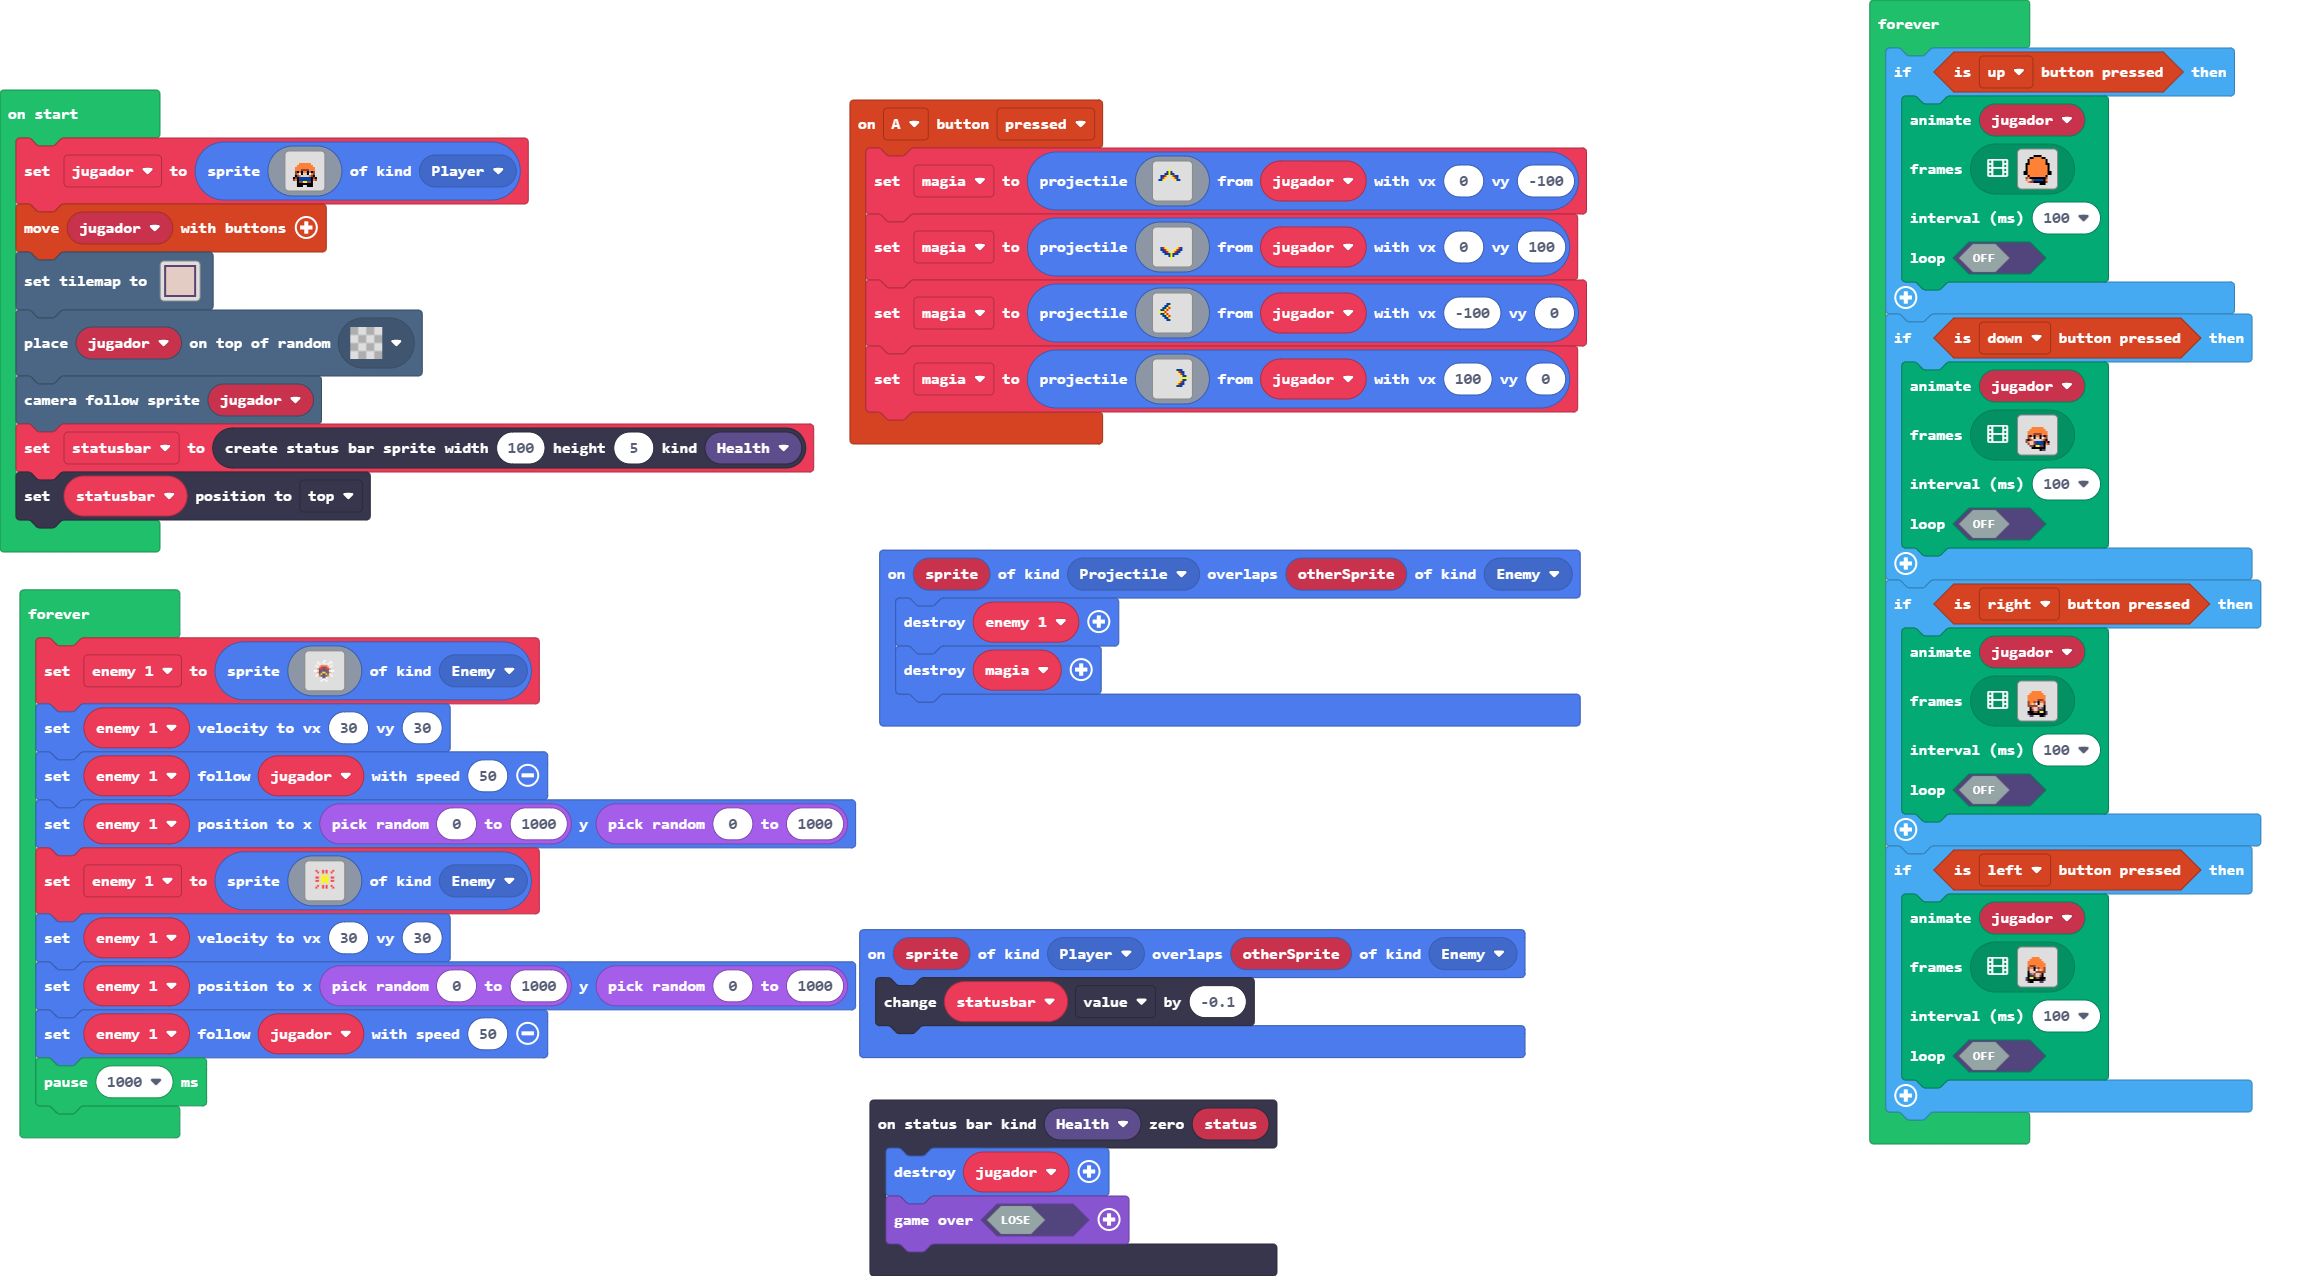
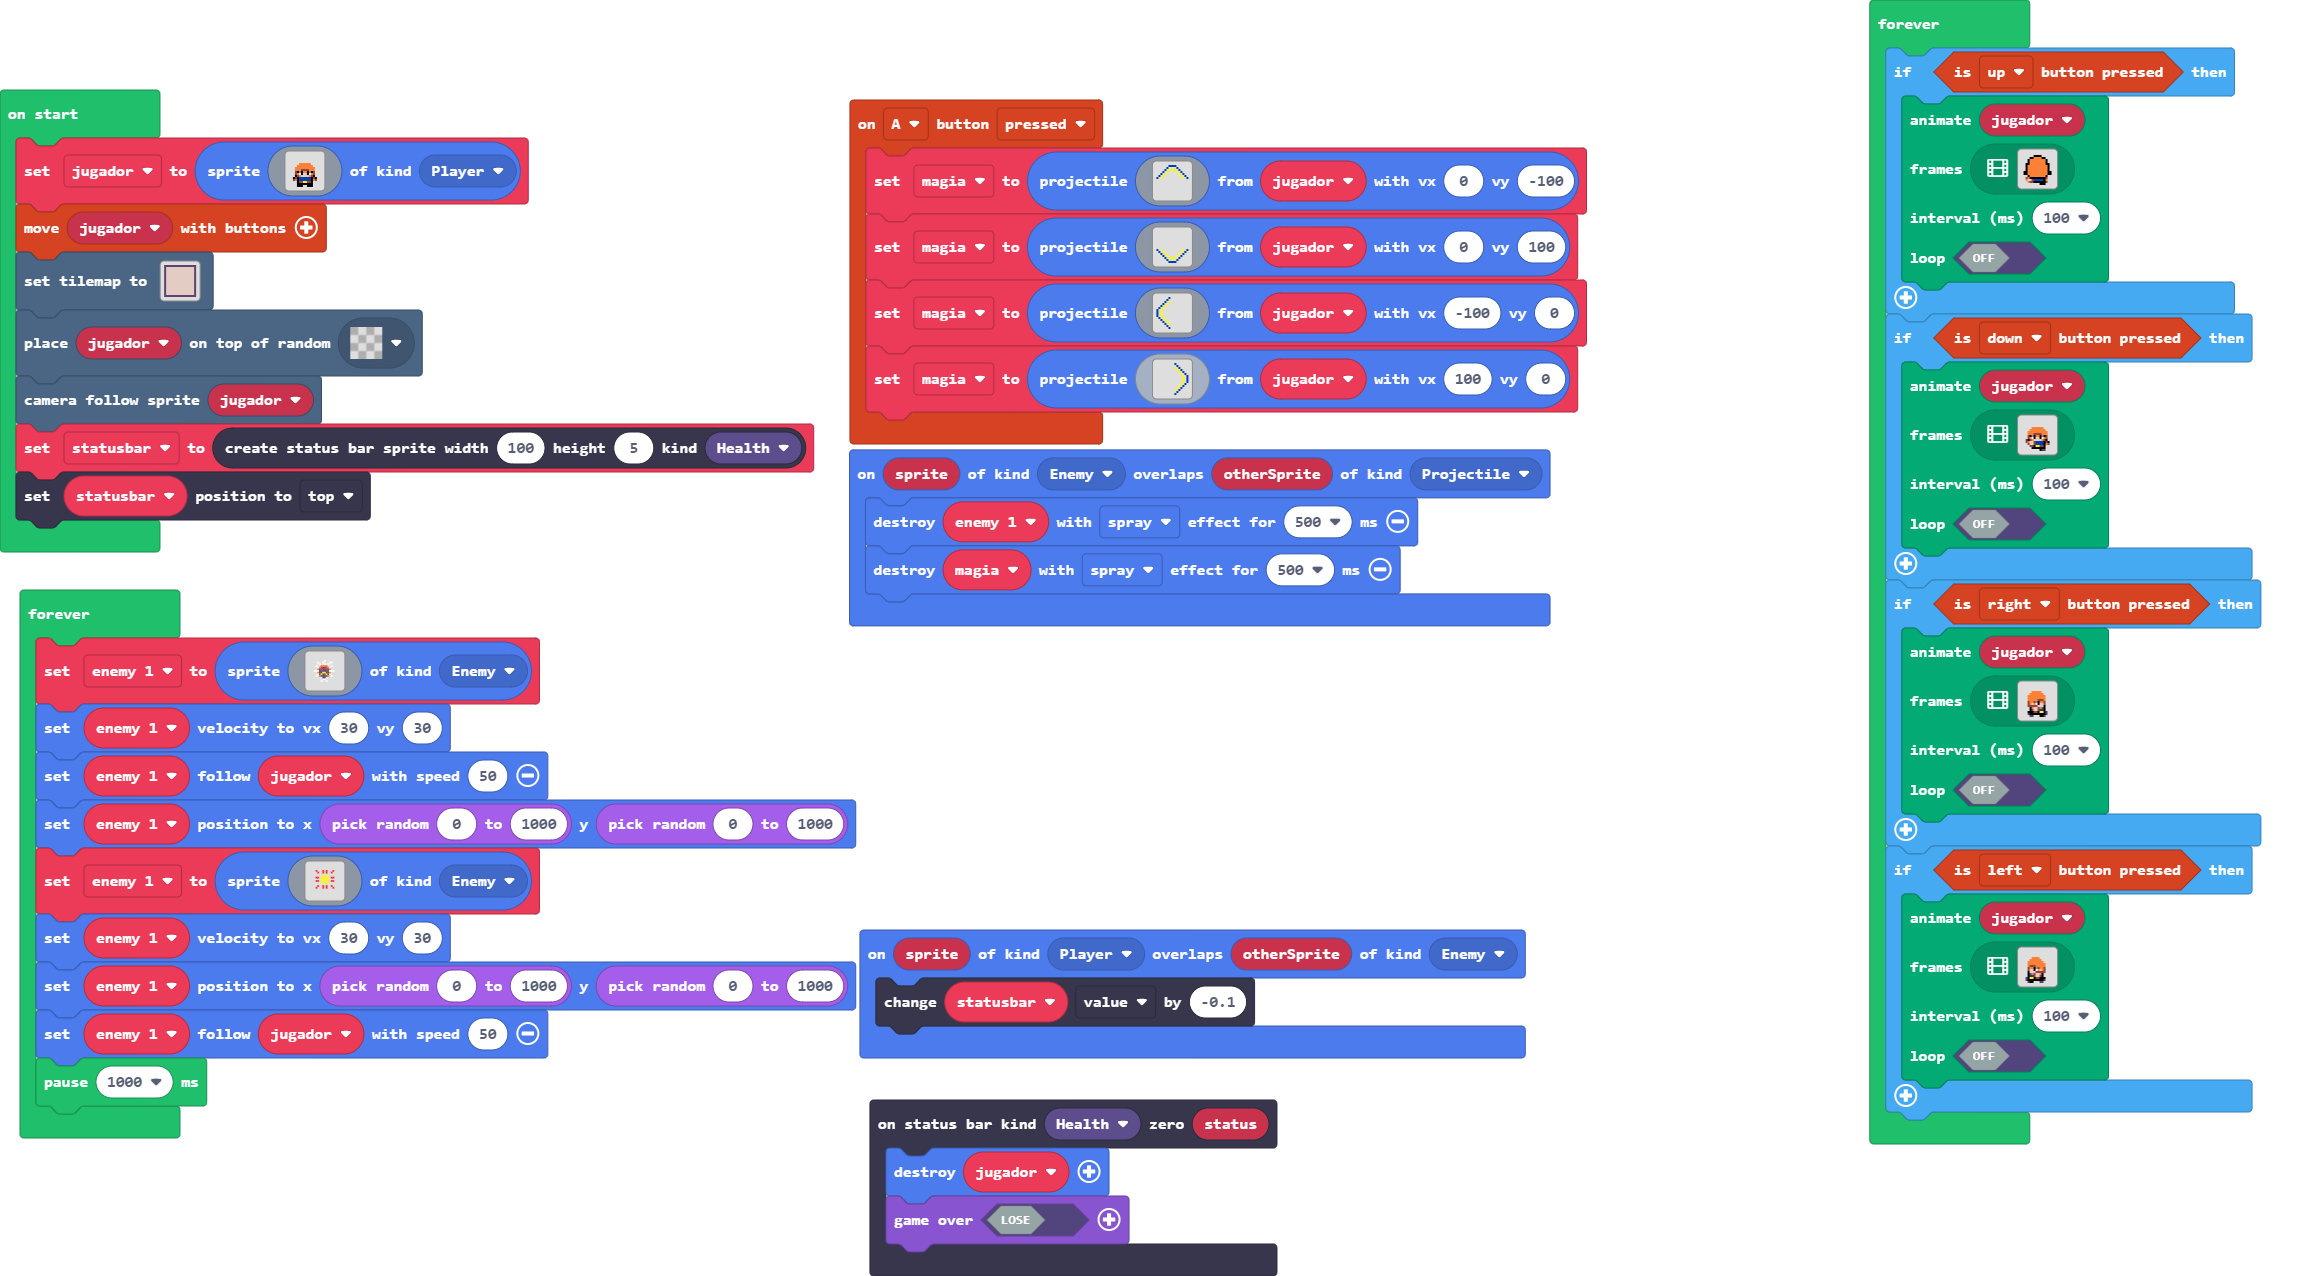
Update main.blocks, main.ts

Changed region(s): [[0.3424, 0.2751, 0.6848, 0.5807], [0.5292, 0.7335, 0.5603, 0.7641]]

diff --git a/main.ts b/main.ts
@@ -3,14 +3,14 @@ namespace SpriteKind {
 }
 controller.A.onEvent(ControllerButtonEvent.Pressed, function () {
     magia = sprites.createProjectileFromSprite(img`
+        . . . . . . 8 8 8 8 . . . . . . 
+        . . . . . 8 . . . . 8 . . . . . 
+        . . . . 8 . 5 5 5 5 . 8 . . . . 
+        . . . 8 . 5 . . . . 5 . 8 . . . 
+        . . 8 . 5 . . . . . . 5 . 8 . . 
+        . 8 . 5 . . . . . . . . 5 . 8 . 
+        8 . 5 . . . . . . . . . . 5 . 8 
         . . . . . . . . . . . . . . . . 
-        . . . . . . . . . . . . . . . . 
-        . . . . . . 5 . . . . . . . . . 
-        . . . . . 8 5 8 . . . . . . . . 
-        . . . . 8 8 5 8 8 . . . . . . . 
-        . . 8 8 2 5 . 5 2 8 8 . . . . . 
-        . . 8 2 5 . . . 5 2 8 . . . . . 
-        . 8 8 5 . . . . . 5 8 8 . . . . 
         . . . . . . . . . . . . . . . . 
         . . . . . . . . . . . . . . . . 
         . . . . . . . . . . . . . . . . 
@@ -29,59 +29,59 @@ controller.A.onEvent(ControllerButtonEvent.Pressed, function () {
         . . . . . . . . . . . . . . . . 
         . . . . . . . . . . . . . . . . 
         . . . . . . . . . . . . . . . . 
-        . . 8 2 5 . . . . . 5 2 8 . . . 
-        . . 8 8 2 5 . . . 5 2 8 8 . . . 
-        . . . 8 8 2 5 . 5 2 8 8 . . . . 
-        . . . . 8 8 8 5 8 8 8 . . . . . 
-        . . . . . . 8 5 8 . . . . . . . 
-        . . . . . . . 5 . . . . . . . . 
         . . . . . . . . . . . . . . . . 
-        . . . . . . . . . . . . . . . . 
+        8 . 5 . . . . . . . . . . 5 . 8 
+        . 8 . 5 . . . . . . . . 5 . 8 . 
+        . . 8 . 5 . . . . . . 5 . 8 . . 
+        . . . 8 . 5 . . . . 5 . 8 . . . 
+        . . . . 8 . 5 5 5 5 . 8 . . . . 
+        . . . . . 8 . . . . 8 . . . . . 
+        . . . . . . 8 8 8 8 . . . . . . 
         `, jugador, 0, 100)
     magia = sprites.createProjectileFromSprite(img`
-        . . . . . . . . . . . . . . . . 
-        . . . . . . . . . . . . . . . . 
-        . . . . . . . . . . . . . . . . 
-        . . . . . 8 8 . . . . . . . . . 
-        . . . . 8 8 5 . . . . . . . . . 
-        . . . 8 8 5 2 . . . . . . . . . 
-        . . 8 8 5 2 . . . . . . . . . . 
-        . 5 5 5 2 . . . . . . . . . . . 
-        . . 8 8 5 2 . . . . . . . . . . 
-        . . . 8 8 5 2 . . . . . . . . . 
-        . . . . 8 8 5 . . . . . . . . . 
-        . . . . . 8 8 . . . . . . . . . 
-        . . . . . . . . . . . . . . . . 
-        . . . . . . . . . . . . . . . . 
-        . . . . . . . . . . . . . . . . 
-        . . . . . . . . . . . . . . . . 
+        . . . . . . 8 . . . . . . . . . 
+        . . . . . 8 . . . . . . . . . . 
+        . . . . 8 . 5 . . . . . . . . . 
+        . . . 8 . 5 . . . . . . . . . . 
+        . . 8 . 5 . . . . . . . . . . . 
+        . 8 . 5 . . . . . . . . . . . . 
+        8 . 5 . . . . . . . . . . . . . 
+        8 . 5 . . . . . . . . . . . . . 
+        8 . 5 . . . . . . . . . . . . . 
+        8 . 5 . . . . . . . . . . . . . 
+        . 8 . 5 . . . . . . . . . . . . 
+        . . 8 . 5 . . . . . . . . . . . 
+        . . . 8 . 5 . . . . . . . . . . 
+        . . . . 8 . 5 . . . . . . . . . 
+        . . . . . 8 . . . . . . . . . . 
+        . . . . . . 8 . . . . . . . . . 
         `, jugador, -100, 0)
     magia = sprites.createProjectileFromSprite(img`
-        . . . . . . . . . . . . . . . . 
-        . . . . . . . . . . . . . . . . 
-        . . . . . . . . . . . . . . . . 
-        . . . . . . . . . . 8 8 8 . . . 
-        . . . . . . . . . . 5 2 8 8 . . 
-        . . . . . . . . . . . 5 2 8 . . 
-        . . . . . . . . . . . . 5 8 8 . 
-        . . . . . . . . . . . . . 5 5 5 
-        . . . . . . . . . . . . 5 8 8 . 
-        . . . . . . . . . . . 5 2 8 . . 
-        . . . . . . . . . . 5 2 8 8 . . 
-        . . . . . . . . . . 8 8 8 . . . 
-        . . . . . . . . . . . . . . . . 
-        . . . . . . . . . . . . . . . . 
-        . . . . . . . . . . . . . . . . 
-        . . . . . . . . . . . . . . . . 
+        . . . . . . . . . 8 . . . . . . 
+        . . . . . . . . . . 8 . . . . . 
+        . . . . . . . . . 5 . 8 . . . . 
+        . . . . . . . . . . 5 . 8 . . . 
+        . . . . . . . . . . . 5 . 8 . . 
+        . . . . . . . . . . . . 5 . 8 . 
+        . . . . . . . . . . . . . 5 . 8 
+        . . . . . . . . . . . . . 5 . 8 
+        . . . . . . . . . . . . . 5 . 8 
+        . . . . . . . . . . . . . 5 . 8 
+        . . . . . . . . . . . . 5 . 8 . 
+        . . . . . . . . . . . 5 . 8 . . 
+        . . . . . . . . . . 5 . 8 . . . 
+        . . . . . . . . . 5 . 8 . . . . 
+        . . . . . . . . . . 8 . . . . . 
+        . . . . . . . . . 8 . . . . . . 
         `, jugador, 100, 0)
+})
+sprites.onOverlap(SpriteKind.Enemy, SpriteKind.Projectile, function (sprite, otherSprite) {
+    enemy_1.destroy(effects.spray, 500)
+    magia.destroy(effects.spray, 500)
 })
 statusbars.onZero(StatusBarKind.Health, function (status) {
     jugador.destroy()
     game.over(false)
-})
-sprites.onOverlap(SpriteKind.Projectile, SpriteKind.Enemy, function (sprite, otherSprite) {
-    enemy_1.destroy()
-    magia.destroy()
 })
 sprites.onOverlap(SpriteKind.Player, SpriteKind.Enemy, function (sprite, otherSprite) {
     statusbar.value += -0.1
